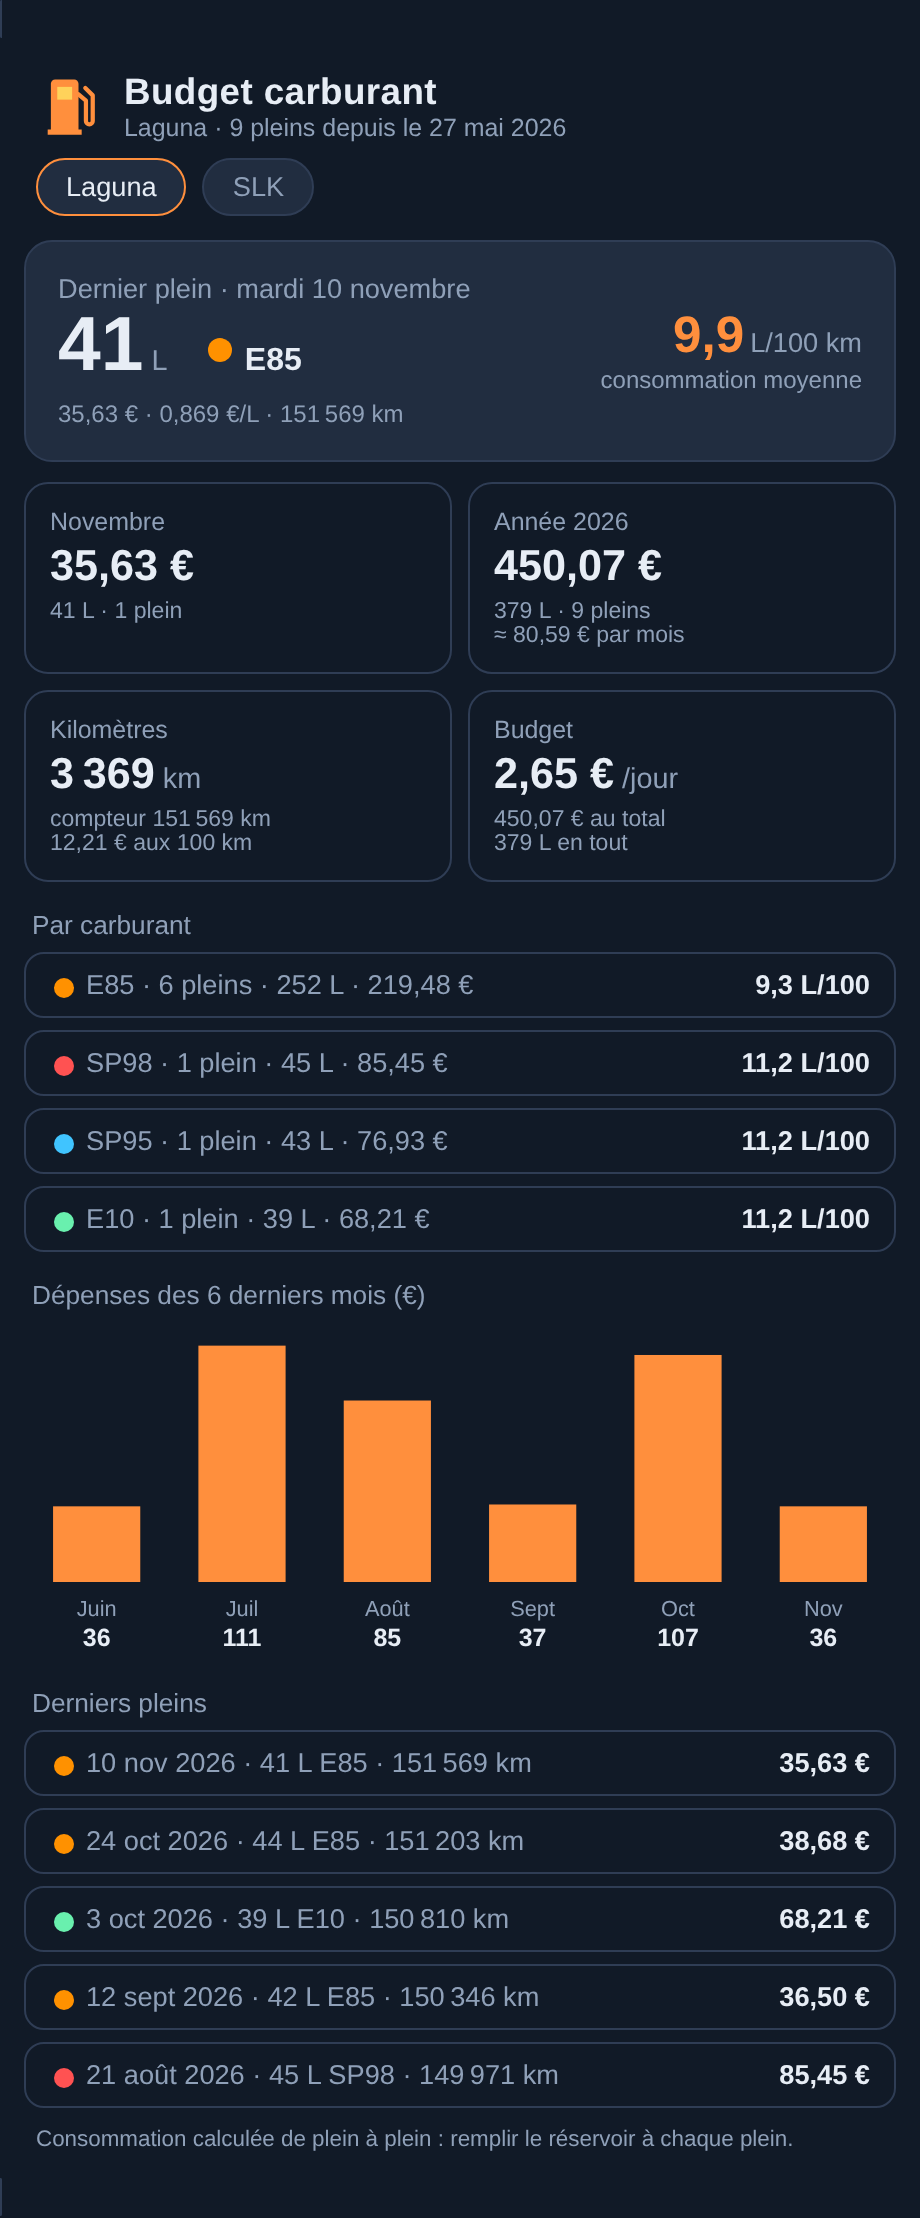
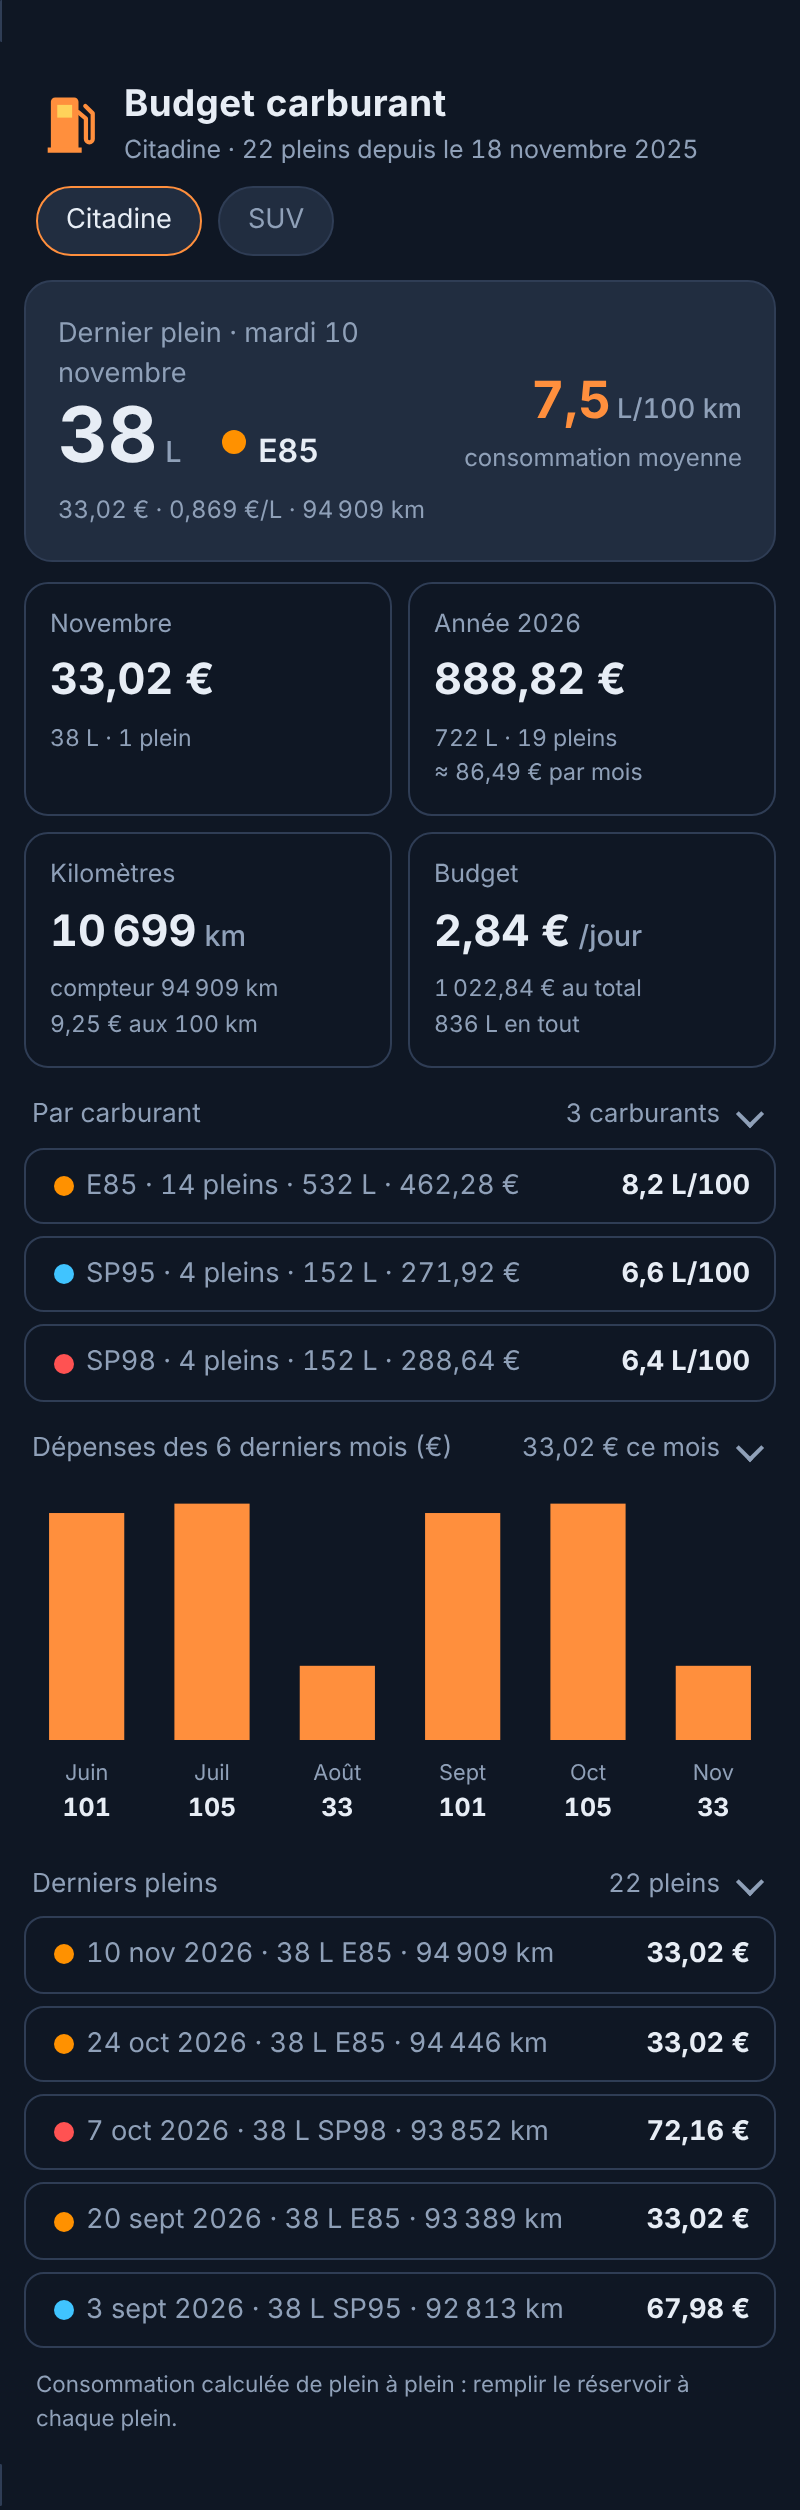
docs: démo en ligne et voitures fictives dans les exemples (1.0.0-beta.12) (#12)
docs/demo.html : la carte avec des pleins simulés (une année sur deux
voitures, premier plein, faute de kilométrage, aucun plein), en onglets ou une
voiture, sections repliées ou ouvertes, thèmes, sombre ou clair, téléphone ou
PC. Lien dans le README et nouvelle capture tirée de la démo. Les exemples
(package, README, commentaires) prennent des voitures fictives, Citadine et
SUV.

Claude-Session: https://claude.ai/code/session_01EzrPxe6qXk5VAyNcnhyntt

diff --git a/docs/demo.html b/docs/demo.html
@@ -1,0 +1,168 @@
+<!doctype html>
+<html lang="fr">
+<head>
+<meta charset="utf-8">
+<meta name="viewport" content="width=device-width, initial-scale=1">
+<title>Budget carburant · démo</title>
+<meta name="description" content="Démonstration de la carte Lovelace Budget carburant avec des pleins simulés.">
+<style>
+  :root {
+    --bg: #0f1724; --panel: #172133; --line: #2a3850; --text: #e7edf5; --muted: #8fa0b8;
+    --accent: #ff9100; --accent2: #1d93e3; --btn: #1e2a3f; --btn-on: #2b3d5c;
+    /* Variables lues par la carte en mode « Thème Home Assistant » */
+    --card-background-color: #1c1c1c; --primary-text-color: #e1e1e1;
+    --secondary-text-color: #9b9b9b; --divider-color: rgba(225, 225, 225, .12);
+    --ha-card-border-radius: 12px;
+    color-scheme: dark;
+  }
+  :root[data-theme="light"] {
+    --bg: #eef2f7; --panel: #ffffff; --line: #d6dde8; --text: #1b2433; --muted: #5b6b82;
+    --accent: #e07b00; --accent2: #1673b8; --btn: #f2f5f9; --btn-on: #dde7f5;
+    --card-background-color: #ffffff; --primary-text-color: #212121;
+    --secondary-text-color: #727272; --divider-color: rgba(0, 0, 0, .12);
+    color-scheme: light;
+  }
+  * { box-sizing: border-box; }
+  body { margin: 0; background: var(--bg); color: var(--text);
+    font: 15px/1.5 system-ui, -apple-system, "Segoe UI", Roboto, sans-serif; }
+  a { color: var(--accent2); }
+  .wrap { max-width: 1100px; margin: 0 auto; padding: 28px 16px 48px; }
+  .top { display: flex; align-items: center; gap: 14px; flex-wrap: wrap; margin-bottom: 22px; }
+  .top svg { width: 40px; height: 40px; flex: none; }
+  h1 { font-size: 1.5rem; margin: 0; line-height: 1.2; }
+  .lead { margin: 2px 0 0; color: var(--muted); }
+  .links { margin-left: auto; display: flex; gap: 14px; font-size: .9rem; }
+  .grid { display: grid; grid-template-columns: 320px 1fr; gap: 20px; align-items: start; }
+  @media (max-width: 860px) { .grid { grid-template-columns: 1fr; } .links { margin-left: 0; } .stage { order: -1; } }
+  .panel { background: var(--panel); border: 1px solid var(--line); border-radius: 16px; padding: 16px; }
+  .panel h2 { font-size: .8rem; text-transform: uppercase; letter-spacing: .06em; color: var(--muted); margin: 0 0 10px; }
+  .panel h2:not(:first-child) { margin-top: 18px; }
+  .ctl { margin-bottom: 14px; }
+  .ctl-l { font-size: .85rem; margin-bottom: 6px; }
+  .seg { display: flex; flex-wrap: wrap; gap: 6px; }
+  .seg button { font: inherit; font-size: .82rem; padding: 5px 11px; border-radius: 999px; cursor: pointer;
+    border: 1px solid var(--line); background: var(--btn); color: var(--text); }
+  .seg button[aria-pressed="true"] { background: var(--btn-on); border-color: var(--accent2); font-weight: 600; }
+  .seg button:focus-visible { outline: 2px solid var(--accent2); outline-offset: 2px; }
+  .note { font-size: .82rem; color: var(--muted); margin: 10px 0 0; }
+  .stage { min-width: 0; }
+  .frame { margin: 0 auto; width: 100%; transition: max-width .25s ease; }
+  .frame.phone { max-width: 400px; }
+  .frame.pc { max-width: 560px; }
+  budget-carburant-card { display: block; }
+  ha-card { display: block; }
+  pre { background: var(--btn); border: 1px solid var(--line); border-radius: 10px; padding: 10px 12px;
+    font-size: .8rem; overflow-x: auto; margin: 0; }
+</style>
+</head>
+<body>
+<div class="wrap">
+  <header class="top">
+    <svg viewBox="0 0 32 32" aria-hidden="true"><path fill="#ff9100" d="M7 5.5a2 2 0 0 1 2-2h9a2 2 0 0 1 2 2v22H7z"/><path fill="#ffd9a8" d="M10 7h7v6h-7z"/><path fill="#ff9100" d="M5.5 27h16v2.5h-16z"/><path fill="none" stroke="#ff9100" stroke-width="2" stroke-linecap="round" stroke-linejoin="round" d="M20 10.5l3.5 3v9.5a1.6 1.6 0 0 0 3.2 0V11l-3.5-3.5"/></svg>
+    <div>
+      <h1>Budget carburant</h1>
+      <p class="lead">Démo de la carte avec des pleins simulés (voitures et valeurs fictives).</p>
+    </div>
+    <nav class="links">
+      <a href="https://github.com/Marlboro62/budget-carburant">Dépôt GitHub</a>
+      <a href="https://github.com/Marlboro62/budget-carburant#installation-de-la-carte">Installer</a>
+    </nav>
+  </header>
+
+  <div class="grid">
+    <aside class="panel">
+      <h2>Pleins</h2>
+      <div class="ctl"><div class="seg" data-ctl="scenario">
+        <button data-v="year" aria-pressed="true">Une année, deux voitures</button>
+        <button data-v="first">Premier plein</button>
+        <button data-v="typo">Faute de kilométrage</button>
+        <button data-v="empty">Aucun plein</button>
+      </div></div>
+      <h2>Carte</h2>
+      <div class="ctl"><div class="ctl-l">Voiture</div><div class="seg" data-ctl="car">
+        <button data-v="" aria-pressed="true">Onglets</button>
+        <button data-v="Citadine">Citadine</button>
+        <button data-v="SUV">SUV</button>
+      </div></div>
+      <div class="ctl"><div class="ctl-l">Sections du bas</div><div class="seg" data-ctl="folded">
+        <button data-v="1" aria-pressed="true">Repliées</button>
+        <button data-v="0">Ouvertes</button>
+      </div></div>
+      <div class="ctl"><div class="ctl-l">Couleurs</div><div class="seg" data-ctl="theme">
+        <button data-v="v2" aria-pressed="true">Bleu nuit</button>
+        <button data-v="auto">Auto</button>
+        <button data-v="ha">Thème Home Assistant</button>
+      </div></div>
+      <div class="ctl"><div class="ctl-l">Home Assistant</div><div class="seg" data-ctl="mode">
+        <button data-v="dark" aria-pressed="true">Sombre</button>
+        <button data-v="light">Clair</button>
+      </div></div>
+      <div class="ctl"><div class="ctl-l">Écran</div><div class="seg" data-ctl="screen">
+        <button data-v="phone" aria-pressed="true">Téléphone</button>
+        <button data-v="pc">PC</button>
+      </div></div>
+      <h2>YAML de la carte</h2>
+      <pre id="yaml"></pre>
+      <p class="note">Touchez les titres « Par carburant », « Dépenses » et « Derniers pleins » pour les ouvrir.</p>
+    </aside>
+    <main class="stage"><div class="frame phone" id="frame"></div></main>
+  </div>
+</div>
+
+<script src="../budget-carburant-card.js"></script>
+<script>
+  // Pleins fictifs : « Plein <voiture> » avec la description qu'écrit l'automatisation du tag NFC
+  const DAY = 86400000;
+  const ev = (car, daysAgo, litres, fuel, price, km) => ({
+    summary: `Plein ${car}`,
+    description: `${litres} L · ${fuel} · ${price} €/L · ${(litres * price).toFixed(2)} € · ${km} km`,
+    start: { dateTime: new Date(Date.now() - daysAgo * DAY).toISOString() },
+  });
+  const PRICES = { SP98: 1.899, SP95: 1.789, E10: 1.749, E85: 0.869 };
+  const CONSO = { SP98: 6.4, SP95: 6.6, E10: 6.8, E85: 8.2 };
+  function year(car, startKm, fuels, every, perTank) {
+    const out = []; let km = startKm, prev = fuels[0];
+    for (let d = 3 + every * Math.floor(357 / every), i = 0; d >= 3; d -= every, i += 1) {
+      const fuel = fuels[i % fuels.length];
+      const litres = i ? Math.round(perTank * 10) / 10 : perTank;
+      if (i) km += Math.round(litres / CONSO[prev] * 100);
+      out.push(ev(car, d, litres, fuel, PRICES[fuel], km));
+      prev = fuel;
+    }
+    return out;
+  }
+  const SCENARIOS = {
+    year: () => [...year("Citadine", 84210, ["E85", "E85", "SP95", "E85", "SP98"], 17, 38), ...year("SUV", 131400, ["E10", "SP95", "E10"], 24, 52)],
+    first: () => [ev("Citadine", 0, 41, "E85", 0.869, 96520)],
+    typo: () => [ev("Citadine", 30, 40, "E85", 0.869, 96520), ev("Citadine", 15, 38, "SP95", 1.789, 9701), ev("Citadine", 1, 39, "E85", 0.869, 97480)],
+    empty: () => [],
+  };
+
+  const state = { scenario: "year", car: "", folded: "1", theme: "v2", mode: "dark", screen: "phone" };
+  const frame = document.getElementById("frame");
+  let card;
+
+  function render() {
+    document.documentElement.dataset.theme = state.mode;
+    frame.className = `frame ${state.screen}`;
+    const config = { calendar: "calendar.home", folded: state.folded === "1", theme: state.theme, ...(state.car ? { car: state.car } : {}) };
+    document.getElementById("yaml").textContent = ["type: custom:budget-carburant-card", ...Object.entries(config).map(([k, v]) => `${k}: ${v}`)].join("\n");
+    const events = SCENARIOS[state.scenario]();
+    card?.remove();
+    card = document.createElement("budget-carburant-card");
+    frame.appendChild(card);
+    card.setConfig(config);
+    card.hass = { themes: { darkMode: state.mode === "dark" }, states: {}, callApi: async () => events };
+  }
+
+  document.querySelectorAll(".seg").forEach((seg) => seg.addEventListener("click", (e) => {
+    const b = e.target.closest("button");
+    if (!b) return;
+    seg.querySelectorAll("button").forEach((x) => x.setAttribute("aria-pressed", String(x === b)));
+    state[seg.dataset.ctl] = b.dataset.v;
+    render();
+  }));
+  render();
+</script>
+</body>
+</html>

diff --git a/budget-carburant-card.js b/budget-carburant-card.js
@@ -14,7 +14,7 @@
  * Style repris de la carte Enedis Linky New (content-card-linky-new), du même auteur.
  */
 
-const CARD_VERSION = "1.0.0-beta.11";
+const CARD_VERSION = "1.0.0-beta.12";
 
 /* ------------------------------------------------------------- affichage */
 
@@ -195,8 +195,8 @@ const PLEINS = {
     return { car, date, litres, price, total: total ?? (price !== null ? litres * price : null), km, fuel };
   },
 
-  /** Préfixe et voiture tolérants : « Plein Laguna » tapé comme début de titre, ou « Plein SLK » comme voiture,
-   *  donnent préfixe « Plein » et voiture « Laguna » / « SLK ». */
+  /** Préfixe et voiture tolérants : « Plein Citadine » tapé comme début de titre, ou « Plein SUV » comme voiture,
+   *  donnent préfixe « Plein » et voiture « Citadine » / « SUV ». */
   target(config) {
     let prefix = String(config.prefix || PLEINS_DEFAULTS.prefix);
     let car = String(config.car || "").trim();
@@ -1174,7 +1174,7 @@ const INSTALL = {
       if ((t.trigger || t.platform) === "tag" && t.id && t.tag_id) (tags[t.id] ||= []).push(t.tag_id);
     }
     const vars = Object.assign({}, ...(auto?.actions || auto?.action || []).filter((a) => a.variables).map((a) => a.variables));
-    // « {{ {"laguna": "Laguna"}.get(car, car) }} » ou « {{ 'Laguna' if car == 'laguna' else 'SLK' }} »
+    // « {{ {"citadine": "Citadine"}.get(car, car) }} » ou « {{ 'Citadine' if car == 'citadine' else 'SUV' }} »
     const mapOf = (tpl) => {
       const s = String(tpl || "");
       const j = /\{\{\s*(\{.*\})\.get\(/.exec(s);

diff --git a/README.md b/README.md
@@ -9,7 +9,12 @@ le plein ». Le plein est noté dans le calendrier, et la carte fait le reste.
 
 ![Carte Budget carburant](images/carte-demo.png)
 
-*Valeurs fictives.*
+*Aperçu réalisé avec la démo : voitures et pleins fictifs.*
+
+**[▶ Essayer la démo en ligne](https://marlboro62.github.io/budget-carburant/docs/demo.html)** :
+une année de pleins sur deux voitures, un premier plein, une faute de kilométrage ou aucun plein,
+en onglets ou une voiture, sections repliées ou ouvertes, en sombre ou clair, sur téléphone ou PC.
+La démo est aussi dans le dépôt : `docs/demo.html`, à ouvrir dans un navigateur.
 
 ## Ce que contient le dépôt
 
@@ -71,7 +76,7 @@ des cartes de Home Assistant.
 
 3. Copiez `packages/budget_carburant.yaml` dans `/config/packages/` et adaptez les lignes marquées
    **À ADAPTER** :
-   - les voitures (l'exemple en a deux, « Laguna » et « SLK ») : tags, noms et entrées par voiture ;
+   - les voitures (l'exemple en a deux, « Citadine » et « SUV ») : tags, noms et entrées par voiture ;
    - le calendrier (`calendar.home`) ;
    - le service de notification de votre téléphone (`notify.mobile_app_mon_telephone`) ;
    - les capteurs de prix du jour de votre station (intégration Prix des carburants, par exemple).
@@ -80,7 +85,7 @@ des cartes de Home Assistant.
    en tête du fichier). Ses pastilles viennent de
    [maison-chips-card](https://github.com/Marlboro62/maison-ha-cards).
 6. Écrivez un tag NFC par voiture avec l'application Home Assistant (**Paramètres › Tags › Ajouter
-   un tag**) en lui donnant l'identifiant du package (`Plein Laguna`, `Plein SLK`…), et collez-le
+   un tag**) en lui donnant l'identifiant du package (`Plein Citadine`, `Plein SUV`…), et collez-le
    dans la voiture.
 
 L'ouverture automatique de la page au bip utilise `command_webview` de l'application Android.
@@ -132,7 +137,7 @@ consommation hors de 3 à 30 L/100 km n'est pas comptée.
 La carte lit les événements dont le titre commence par « Plein » suivi du nom de la voiture :
 
 ```text
-Titre       : Plein Laguna
+Titre       : Plein Citadine
 Description : 42.5 L · E85 · 0.869 €/L · 36.93 € · 162000 km
 ```
 
